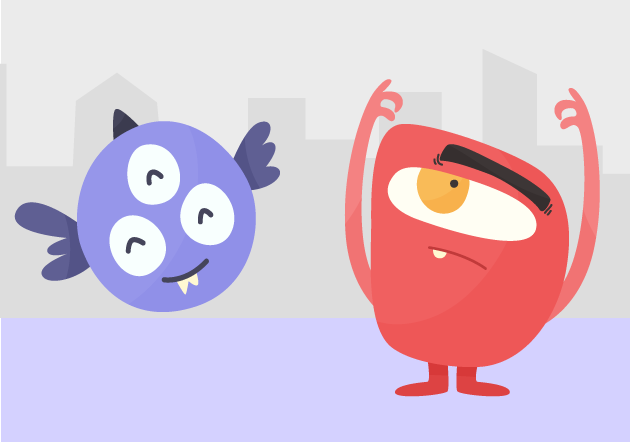
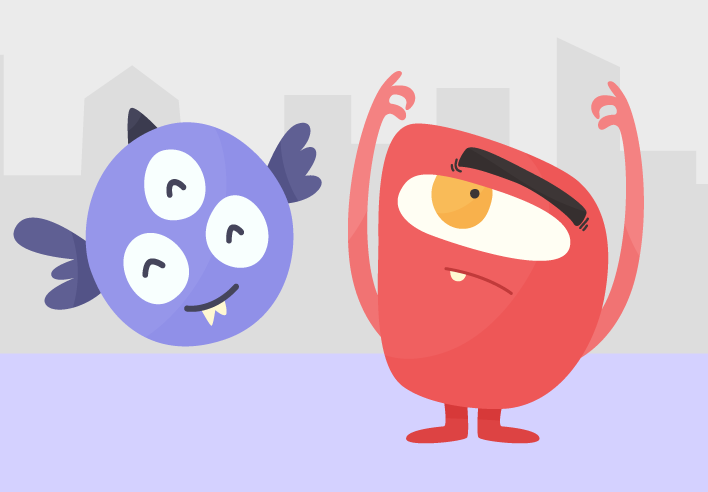
New imgs (monster page)
full width

diff --git a/MyPrototype/src/pages/monster/monster.html b/MyPrototype/src/pages/monster/monster.html
@@ -15,10 +15,15 @@
 
 
 <ion-content class="main-container">
-<ion-grid>
-  <ion-row>
-    <ion-col col-12><img src="../assets/imgs/monster-cover.png" class="no-space"></ion-col>
+
+<ion-grid class="fullwidth">
+  <ion-row class="fullwidth">
+    <ion-col class="fullwidth">
+      <img src="../assets/imgs/monster-cover.png" class="fullwidth">
+    </ion-col>
   </ion-row>
+
+
   <ion-row>
   	<h2 class="heading">
   		<img src="../assets/icon/monster-icon.png" height="40px" width="40px" class="icon">City monsters</h2>

diff --git a/MyPrototype/src/pages/monster/monster.scss b/MyPrototype/src/pages/monster/monster.scss
@@ -4,11 +4,17 @@ page-monster {
 
 .main-container {
 	background-color: $violet;
+	padding: 0px;
+	margin: 0px;
+
+	
 }
 
-.no-space {
-	margin: 0;
-	padding: 0;
+
+.fullwidth{
+	 width: 100%;
+	 margin: 0px;
+	 padding: 0px;
 }
 
 .heading {	
